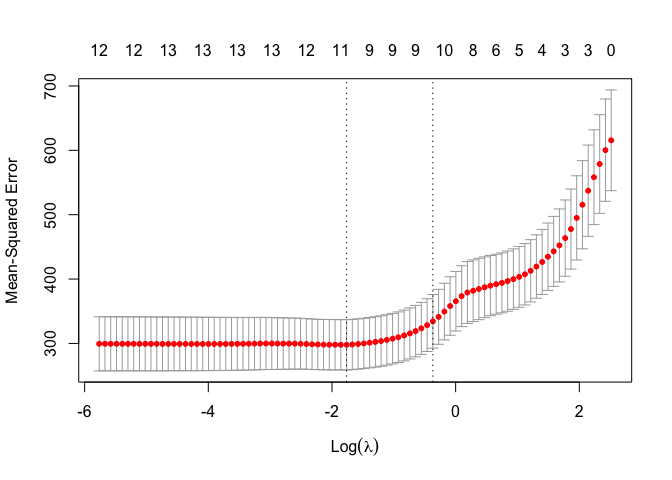
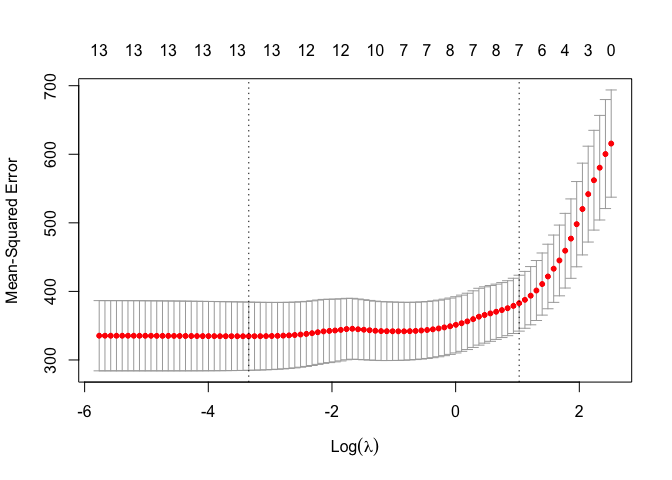
???

diff --git a/test.md b/test.md
@@ -22,7 +22,9 @@ cid_dt = read_csv('cdi.csv')
 
 ``` r
 cid_dt = cid_dt %>% mutate(region = factor(region),
-                           crimes = crimes/pop * 1000)
+                           crimes = crimes/pop * 1000,
+                           docs = docs/pop *1000,
+                           beds = beds/pop *1000)
 cid_dt %>% select(-c(id,cty,state,crimes,region)) %>%
     pivot_longer(cols = everything(), names_to = "variables", values_to = "value") %>%
     ggplot(aes(factor(variables), value)) +geom_violin() + facet_wrap(~variables, scale="free")
@@ -32,6 +34,19 @@ cid_dt %>% select(-c(id,cty,state,crimes,region)) %>%
 
 ## outlier
 
+``` r
+# x = "area"
+# cid_dt = as.data.table(cid_dt)
+# for (x in colnames(cid_dt %>% select(-c(id,cty,state,crimes,region)))){
+#   print(x)
+#   cid_dt = cid_dt[!(cid_dt[[x]] %in% boxplot.stats(cid_dt[[x]])$out)]
+# }
+# cid_dt = as_tibble(cid_dt)
+# cid_dt %>% select(-c(id,cty,state,crimes,region)) %>%
+#   pivot_longer(cols = everything(), names_to = "variables", values_to = "value") %>%
+#   ggplot(aes(factor(variables), value)) +geom_boxplot() + facet_wrap(~variables, scale="free")
+```
+
 ## regression: stepwise, VIF …
 
 ``` r
@@ -39,7 +54,7 @@ set.seed(8130)
 validation_dt = cid_dt %>% sample_frac(0.1)
 tt_dt = cid_dt %>% filter(!(id %in% validation_dt$id))
 
-tt_dt %>% select(-c(id,cty,state,crimes,region)) %>% as.data.frame %>% plot(pch=20 , cex=1.5 , col="#69b3a2")
+tt_dt %>% select(-c(id,cty,state,crimes,region)) %>% as.data.frame %>% plot(pch=20 , cex=0.05 , col="#69b3a2")
 ```
 
 ![](test_files/figure-gfm/unnamed-chunk-3-1.png)<!-- -->
@@ -48,8 +63,8 @@ tt_dt %>% select(-c(id,cty,state,crimes,region)) %>% as.data.frame %>% plot(pch=
 set.seed(8130)
 train_dt = tt_dt %>% sample_frac(0.7)
 test_dt = tt_dt %>% filter(!(id %in% train_dt$id))
-
-t_select = train_dt %>% select(-c(id,cty,state,pop,totalinc,docs))
+t_select = train_dt %>% select(-c(id,cty,state,pop))
+#t_select = train_dt %>% select(-c(id,cty,state,pop))
 intercept_only <-  lm(crimes ~ 1, data = t_select)
 
 #define model with all predictors
@@ -64,23 +79,23 @@ forward$anova
     ## 1            NA         NA       276  170064.93 1780.317
     ## 2  + poverty -1 42417.2012       275  127647.73 1702.844
     ## 3   + region -3 21193.9721       272  106453.75 1658.551
-    ## 4     + beds -1 16448.4747       271   90005.28 1614.059
-    ## 5   + bagrad -1  7729.2905       270   82275.99 1591.187
-    ## 6 + pcincome -1  1598.8260       269   80677.16 1587.752
-    ## 7    + pop18 -1  2382.6550       268   78294.51 1581.448
-    ## 8    + pop65 -1  1358.0712       267   76936.44 1578.601
-    ## 9   + hsgrad -1   565.6121       266   76370.82 1578.557
+    ## 4     + docs -1 17060.2463       271   89393.51 1612.170
+    ## 5 + totalinc -1  5297.0043       270   84096.50 1597.250
+    ## 6     + beds -1  2493.3320       269   81603.17 1590.913
+    ## 7   + bagrad -1  3683.4191       268   77919.75 1580.119
+    ## 8 + pcincome -1   949.0602       267   76970.69 1578.724
+    ## 9    + pop18 -1  3140.6825       266   73830.01 1569.184
 
 ``` r
 forward$coefficients
 ```
 
     ##   (Intercept)       poverty       region2       region3       region4 
-    ## -1.082250e+02  2.998678e+00  1.531464e+01  2.780445e+01  1.929891e+01 
-    ##          beds        bagrad      pcincome         pop18         pop65 
-    ##  2.093135e-03 -3.146961e-01  2.063635e-03  1.489331e+00  7.821320e-01 
-    ##        hsgrad 
-    ##  4.537523e-01
+    ## -5.625844e+01  2.127342e+00  1.275529e+01  2.697177e+01  2.221295e+01 
+    ##          docs      totalinc          beds        bagrad      pcincome 
+    ## -4.189414e-01  2.154915e-04  3.451125e+00 -1.248342e-01  1.811945e-03 
+    ##         pop18 
+    ##  1.173439e+00
 
 ``` r
 test_dt$pred_crime = predict(all, test_dt)
@@ -94,23 +109,25 @@ test_dt %>% plot(residual ~ crimes, data =.)
 mean(test_dt$residual^2)
 ```
 
-    ## [1] 310.5697
+    ## [1] 297.5467
 
 ``` r
 car::vif(all)
 ```
 
     ##              GVIF Df GVIF^(1/(2*Df))
-    ## area     1.448687  1        1.203614
-    ## pop18    2.648302  1        1.627360
-    ## pop65    1.754283  1        1.324493
-    ## beds     1.289336  1        1.135489
-    ## hsgrad   4.749307  1        2.179290
-    ## bagrad   7.326535  1        2.706757
-    ## poverty  3.089264  1        1.757630
-    ## unemp    1.888160  1        1.374103
-    ## pcincome 4.646000  1        2.155458
-    ## region   2.560427  3        1.169640
+    ## area     1.459564  1        1.208124
+    ## pop18    2.721523  1        1.649704
+    ## pop65    2.052878  1        1.432787
+    ## docs     3.342527  1        1.828258
+    ## beds     3.748385  1        1.936075
+    ## hsgrad   4.784924  1        2.187447
+    ## bagrad   7.874531  1        2.806159
+    ## poverty  3.882542  1        1.970417
+    ## unemp    2.047445  1        1.430890
+    ## pcincome 4.901364  1        2.213902
+    ## totalinc 1.294216  1        1.137636
+    ## region   2.917165  3        1.195346
 
 ## lasso
 
@@ -125,7 +142,7 @@ plot(cv_model)
 ![](test_files/figure-gfm/unnamed-chunk-4-1.png)<!-- -->
 
 ``` r
-lambda_se = cv_model$lambda.1se
+lambda_se = cv_model$lambda.min
 best_model <- glmnet(x, y, alpha = 1, lambda = lambda_se)
 c =  coef(best_model)
 print(c)
@@ -133,20 +150,20 @@ print(c)
 
     ## 14 x 1 sparse Matrix of class "dgCMatrix"
     ##                        s0
-    ## (Intercept) -3.616861e+01
-    ## area        -5.628908e-04
-    ## pop          .           
-    ## pop18        1.001365e+00
-    ## pop65        1.845595e-01
-    ## docs         .           
-    ## beds         4.892768e-03
-    ## hsgrad       .           
-    ## bagrad       .           
-    ## poverty      2.353167e+00
-    ## unemp       -3.952911e-01
-    ## pcincome     1.273451e-03
-    ## totalinc    -5.204491e-04
-    ## region       7.297640e+00
+    ## (Intercept) -8.287988e+01
+    ## area        -1.787549e-03
+    ## pop          7.226112e-05
+    ## pop18        1.379204e+00
+    ## pop65        2.602428e-01
+    ## docs        -6.943673e-01
+    ## beds         3.503800e+00
+    ## hsgrad      -9.472505e-02
+    ## bagrad      -8.687184e-02
+    ## poverty      2.256426e+00
+    ## unemp       -1.252174e-01
+    ## pcincome     2.819901e-03
+    ## totalinc    -3.250351e-03
+    ## region       9.171573e+00
 
 ``` r
 inds<-which(c!=0)
@@ -155,7 +172,7 @@ f = paste("bwt ~ ",paste(variables, collapse = " + "),sep = "")
 cat(f)
 ```
 
-    ## bwt ~ area + pop18 + pop65 + beds + poverty + unemp + pcincome + totalinc + region
+    ## bwt ~ area + pop + pop18 + pop65 + docs + beds + hsgrad + bagrad + poverty + unemp + pcincome + totalinc + region
 
 # result
 
@@ -174,7 +191,7 @@ abline(0,0)
 mean(test_dt_lasso$residual^2)
 ```
 
-    ## [1] 310.5697
+    ## [1] 297.5467
 
 ``` r
 qqnorm(test_dt_lasso$res_lasso)
@@ -188,7 +205,7 @@ test_dt_lasso %>% plot(res_lasso ~ crimes, data =.)
 mean(test_dt_lasso$res_lasso^2)
 ```
 
-    ## [1] 318.0801
+    ## [1] 288.6639
 
 ``` r
 abline(0,0)
